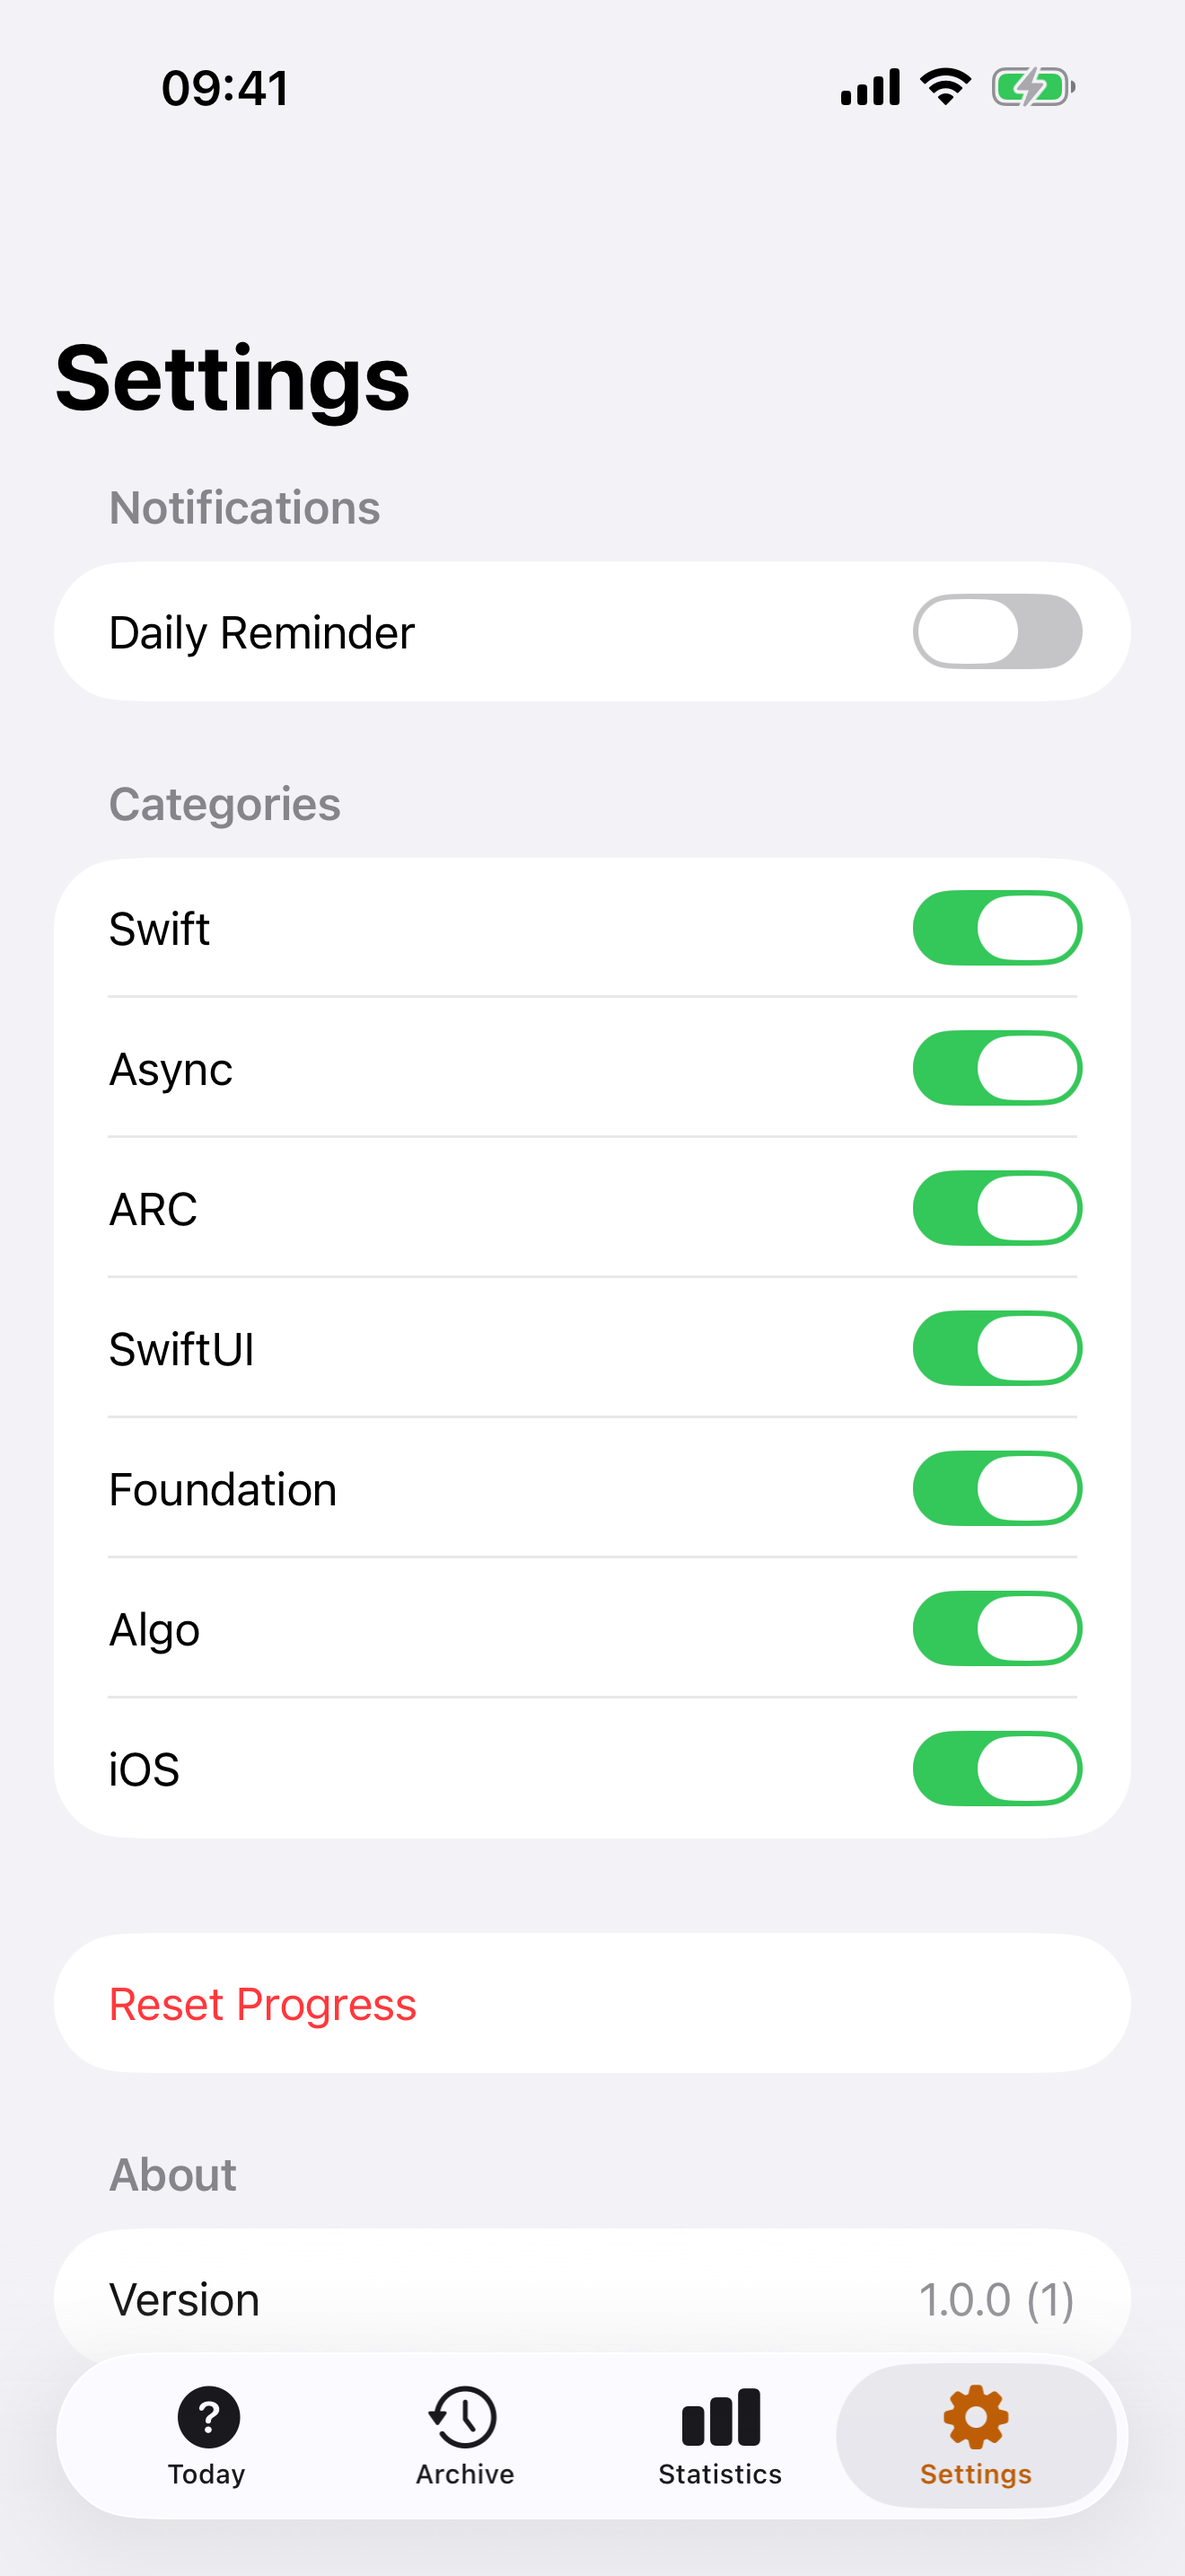
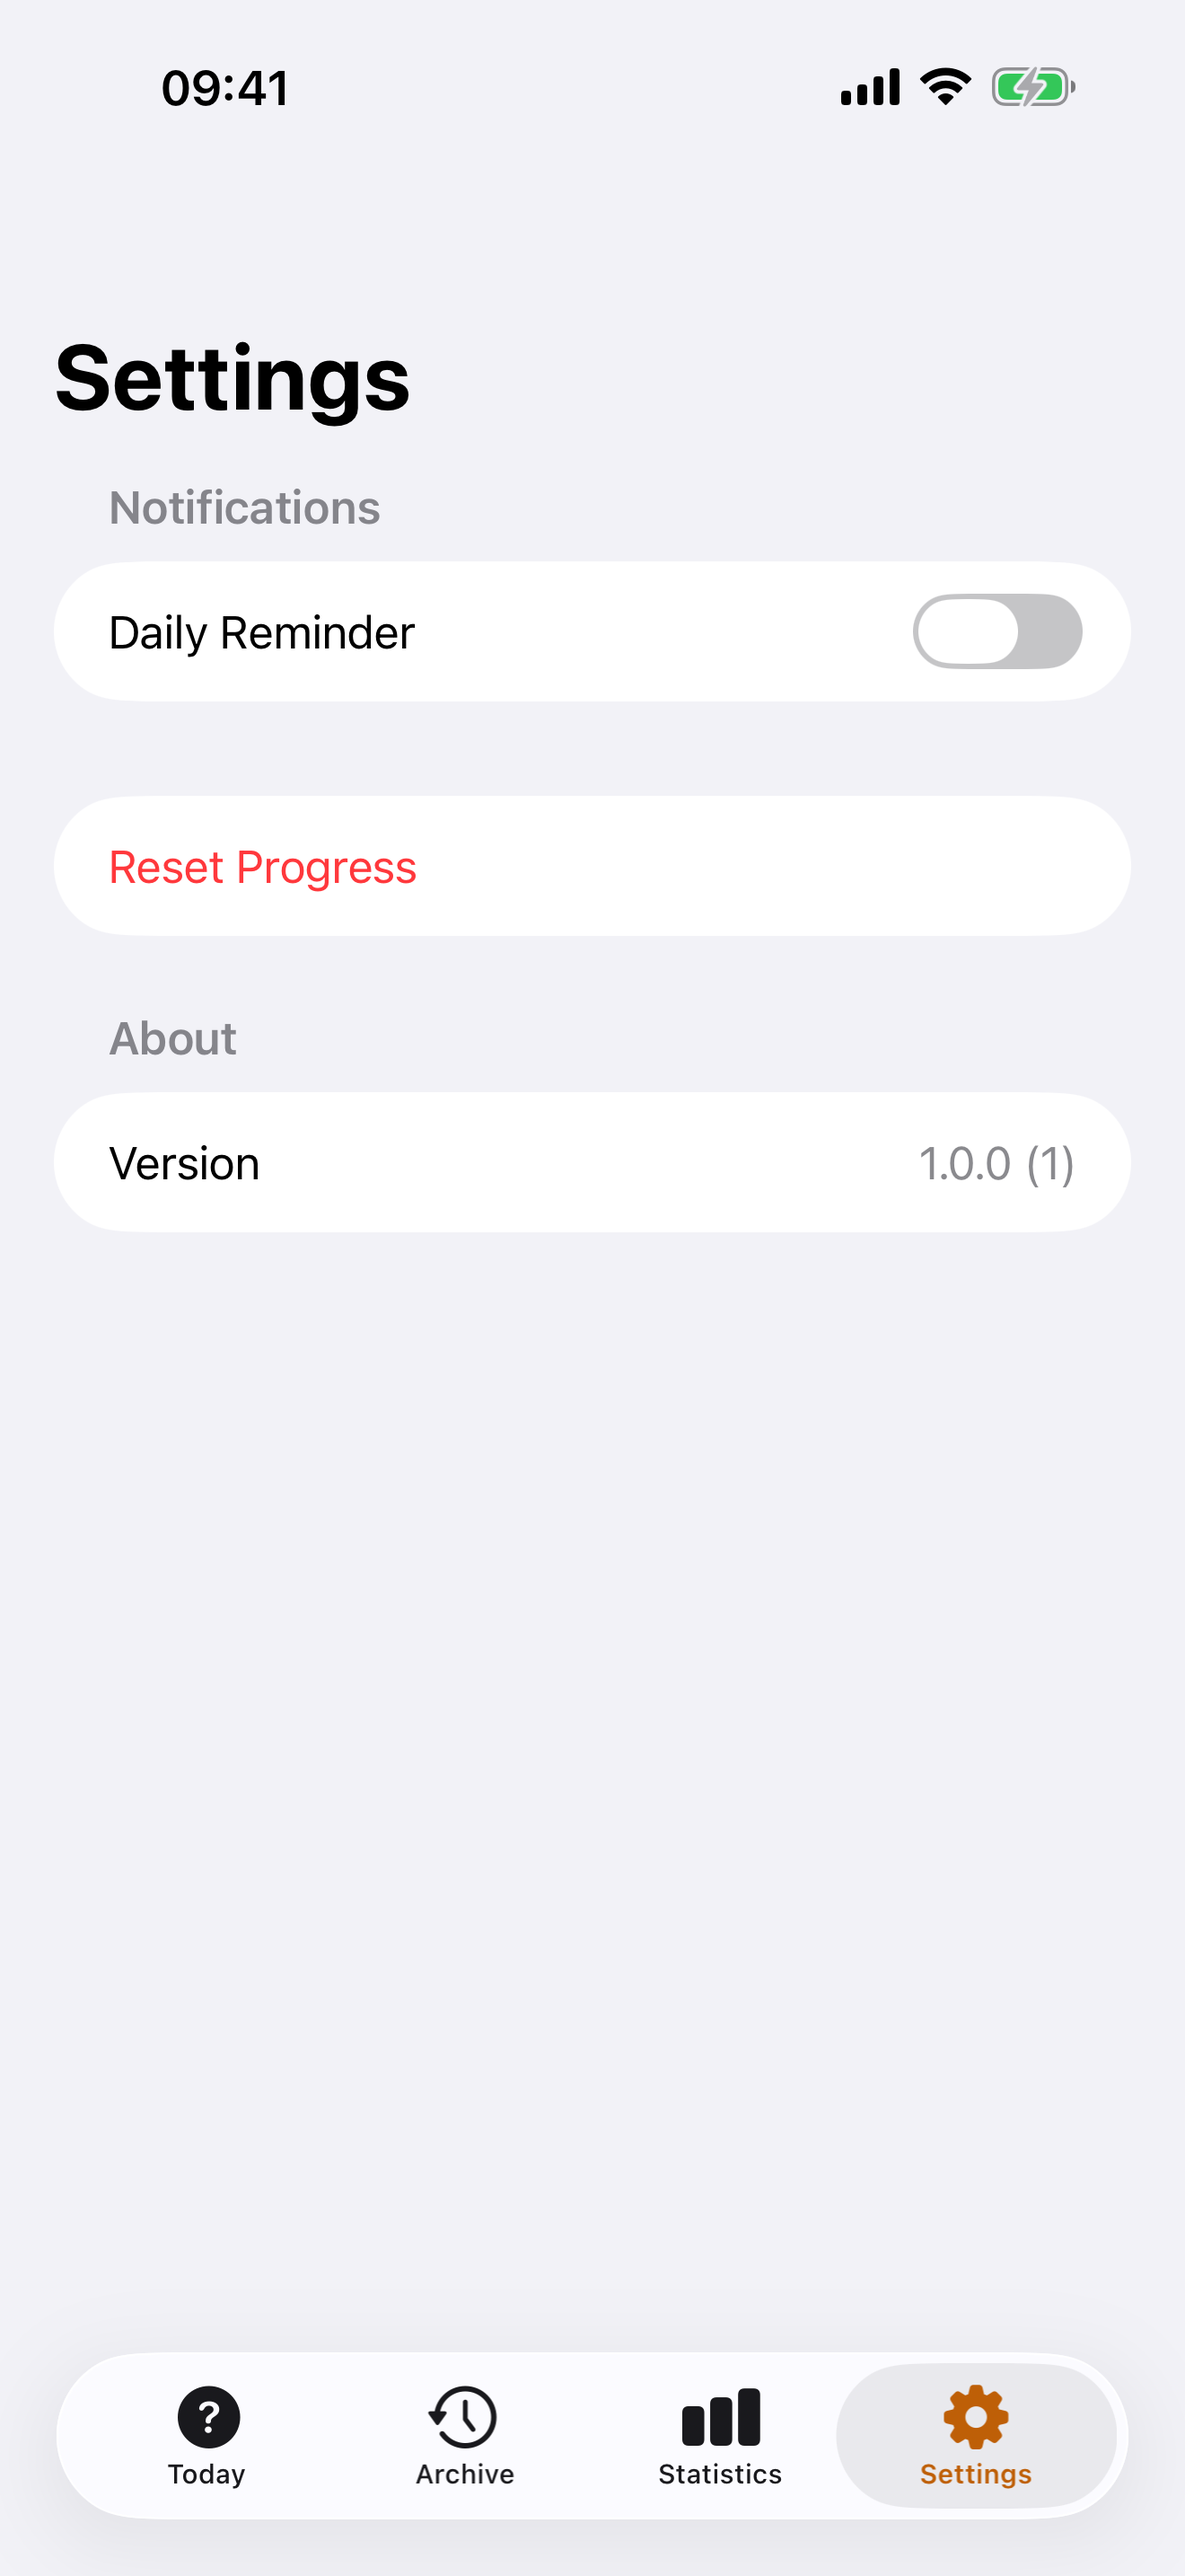
fix: remove the category toggles that never filtered anything
Settings offered seven category switches. They persisted a preference no
other code read: DailyPuzzleSelector schedules over the whole bank and
takes no exclusion set, so turning SwiftUI off still produced SwiftUI
puzzles the next morning. The switches were also written to the standard
defaults rather than the App Group, so the widget could not have seen
them even if something had asked.

Wiring them up would have cost the property the whole schedule rests on
— that the puzzle of a day is a function of the date alone (SPEC §8).
Honouring an exclusion makes the mapping depend on a setting, and
flipping one would rewrite which puzzle belongs to which past day, so
the archive would reshuffle under the user. For a bank of 120 showing
one a day, that is not a trade worth making.

The header string leaves the catalog with them, and SPEC §5 now says why
the feature is absent rather than listing it as delivered.

diff --git a/App/Sources/Features/Settings/SettingsView.swift b/App/Sources/Features/Settings/SettingsView.swift
@@ -1,22 +1,21 @@
-import KodKirintisiCore
 import SwiftUI
 import UIKit
 import WidgetKit
 
-/// The fourth tab: notification preferences, which categories are wanted,
-/// and a way to start over.
+/// The fourth tab: notification preferences and a way to start over.
 ///
-/// The category toggles are UI-only: they persist a preference that nothing
-/// reads, because ``DailyPuzzleSelector`` schedules over the whole bank and
-/// has no way to honour an exclusion. That was a deliberate scope call, not
-/// an oversight. The notification switches, UI-only in M6, now drive
-/// ``NotificationScheduler``.
+/// There were category toggles here too, which wrote a preference nothing
+/// read — ``DailyPuzzleSelector`` schedules over the whole bank and has no
+/// way to honour an exclusion. Honouring one would have meant giving up the
+/// property the schedule is built on, that the puzzle of a day is a function
+/// of the date alone (`docs/SPEC.md` §8): the day-to-puzzle mapping would
+/// then depend on a setting, and flipping it would rewrite the archive. A
+/// switch that does nothing is worse than no switch, so they are gone.
 struct SettingsView: View {
     @Environment(\.openURL) private var openURL
 
     @AppStorage("settings.notificationsEnabled") private var notificationsEnabled = false
     @AppStorage("settings.notificationMinuteOfDay") private var notificationMinuteOfDay = 9 * 60
-    @AppStorage("settings.excludedCategories") private var excludedCategoriesRaw = ""
 
     @State private var isShowingResetConfirmation = false
     @State private var isShowingPermissionAlert = false
@@ -26,7 +25,6 @@ struct SettingsView: View {
         NavigationStack {
             Form {
                 notificationSection
-                categorySection
                 resetSection
                 aboutSection
             }
@@ -73,18 +71,6 @@ struct SettingsView: View {
         }
     }
 
-    private var categorySection: some View {
-        Section {
-            ForEach(PuzzleCategory.allCases, id: \.self) { category in
-                Toggle(isOn: binding(for: category)) {
-                    Text(category.badgeName)
-                }
-            }
-        } header: {
-            Text("Categories")
-        }
-    }
-
     private var resetSection: some View {
         Section {
             Button("Reset Progress", role: .destructive) {
@@ -114,25 +100,6 @@ struct SettingsView: View {
             set: { newValue in
                 let components = Calendar.current.dateComponents([.hour, .minute], from: newValue)
                 notificationMinuteOfDay = (components.hour ?? 9) * 60 + (components.minute ?? 0)
-            }
-        )
-    }
-
-    private var excludedCategories: Set<PuzzleCategory> {
-        Set(excludedCategoriesRaw.split(separator: ",").compactMap { PuzzleCategory(rawValue: String($0)) })
-    }
-
-    private func binding(for category: PuzzleCategory) -> Binding<Bool> {
-        Binding(
-            get: { !excludedCategories.contains(category) },
-            set: { included in
-                var excluded = excludedCategories
-                if included {
-                    excluded.remove(category)
-                } else {
-                    excluded.insert(category)
-                }
-                excludedCategoriesRaw = excluded.map(\.rawValue).sorted().joined(separator: ",")
             }
         )
     }

diff --git a/docs/SPEC.md b/docs/SPEC.md
@@ -57,7 +57,14 @@ Kesin sınır: aşağıdakiler var, **başka hiçbir şey yok**.
 > - **Cevaplanmamış bugün seriyi bitirmez**; gün henüz dolmadı. İki gün üst üste boş geçince sıfırlanır.
 > - Bu ikisi farklı durumlardır, bu yüzden `StreakCalculator` hem doğru hem yanlış cevaplanan gün kümesini alır. Sonucu yalnızca **bugünün** yanlış kümesinde olması değiştirir; geçmiş yanlış günler zaten doğru kümesinde olmadıkları için seriyi kendiliğinden durdurur.
 > - Gün sınırı kullanıcının takvimine göre (`startOfDay`), yaz saati geçişlerinde de gün tam olarak bir artar.
-- [ ] **Ayarlar** — günlük bildirim saati, dahil edilecek kategoriler, ilerlemeyi sıfırla, hakkında.
+- [ ] **Ayarlar** — günlük bildirim saati, ilerlemeyi sıfırla, hakkında.
+
+> **Kategori seçimi neden yok:** §8 günün sorusunu tarihin saf fonksiyonu
+> sayıyor; uygulama ile widget sunucu olmadan aynı sonuca varabildiği için
+> böyle. Kategori dışlaması bu hesabı ayarlara bağımlı kılar ve kullanıcı bir
+> kategoriyi kapattığında geçmiş günlerin soruları da değişir — yani arşiv
+> yeniden yazılır. Günde tek soru gösteren 120 soruluk bir bankada filtrenin
+> getirisi bu bedeli karşılamıyor.
 
 ### 5.3 Sistem entegrasyonları
 
